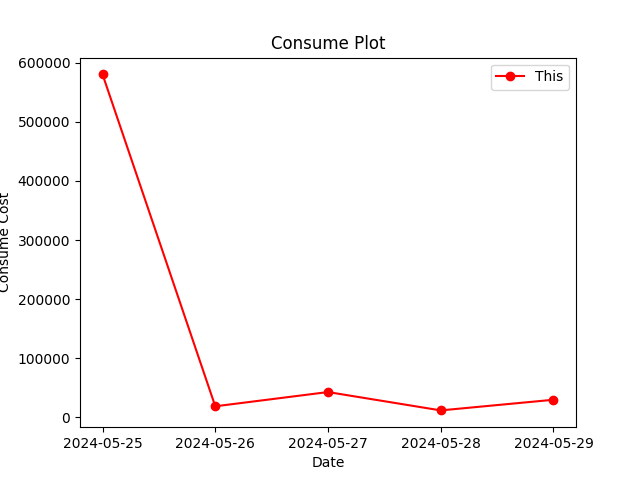
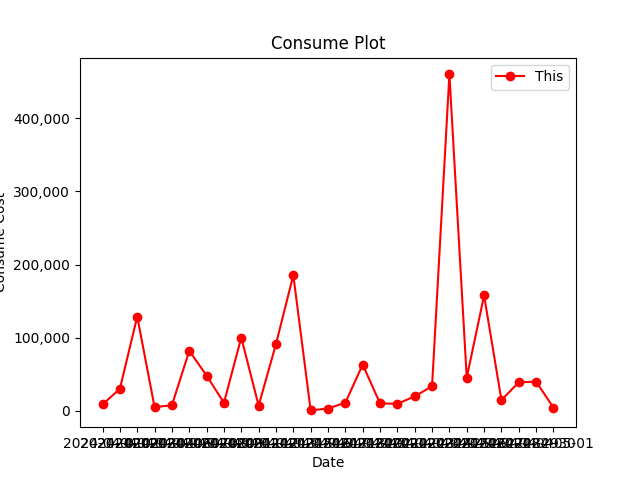
2024-05-29
2024-05-29

diff --git a/python_dev/consume_alert/command.py b/python_dev/consume_alert/command.py
@@ -205,7 +205,11 @@ def command_consumption_per_term(update, context, grant_group_name):
                     total_cost = es_obj.get_consume_total_cost('consuming_index_prod_new', formatted_start_date, formatted_end_date)
                     consume_info_list = es_obj.get_consume_info_detail_list('consuming_index_prod_new', formatted_start_date, formatted_end_date)
                     
+                    calculate_cosume_res(consume_info_list)
+
                     tele_bot.send_message_consume(context, start_date, end_date , total_cost, consume_info_list, 10)
+
+                    send_image(update, context, './data/img/plot.png')
 
             else:
                 tele_bot.send_message_text(context, "There is a problem with the parameter you entered. Please check again. \nEX) /ctr 2023.07.07-2023.08.01")
@@ -299,7 +303,7 @@ def command_consumption_per_salary(update, context, grant_group_name):
                     now_date = now_date.replace(day=1) - timedelta(days=1)
                     now_date = now_date.replace(day=25, hour=0, minute=0, second=0, microsecond=0)
                     end_date = end_date.replace(day=25, hour=0, minute=0, second=0, microsecond=0)
-
+                
                 formatted_now_date = now_date.strftime("%Y-%m-%dT%H:%M:%SZ")
                 formatted_end_date = end_date.strftime("%Y-%m-%dT%H:%M:%SZ")
                 
@@ -312,8 +316,9 @@ def command_consumption_per_salary(update, context, grant_group_name):
 
                 calculate_cosume_res(consume_info_list)
 
+                tele_bot.send_message_consume(context, formatted_now_date, formatted_end_date , total_cost, consume_info_list, 10)
 
-                #tele_bot.send_message_consume(context, formatted_now_date, formatted_end_date , total_cost, consume_info_list, 10)
+                send_image(update, context, './data/img/plot.png')
                 
             else:
                 tele_bot.send_message_text(context, "There is a problem with the parameter you entered. Please check again. \nEX) /cs")

diff --git a/python_dev/consume_alert/utils/matplot_util.py b/python_dev/consume_alert/utils/matplot_util.py
@@ -7,7 +7,7 @@ def calculate_cosume_res(consume_list):
     
     # Ordered Dictionary to save results
     results = OrderedDict()
-
+    
     for elem in consume_list:
 
         elem_date = elem.date 
@@ -15,7 +15,7 @@ def calculate_cosume_res(consume_list):
         
         # parsing into datetime objects
         dt = datetime.fromisoformat(elem_date.rstrip('Z'))
-
+        
         # Extract date in year-month-day format
         date_only = dt.date().isoformat()
 
@@ -24,21 +24,24 @@ def calculate_cosume_res(consume_list):
         else:
             results[date_only] = elem_cost
 
-    # for date, total_cost in results.items():
-    #     print(date, total_cost)
+    for date, total_cost in results.items():
+        print(date, total_cost)
 
     draw_graph(results)
 
     #return results
 
 
+# Formatter Function Definition
+def thousands_formatter(x, pos):
+    return f'{int(x):,}'
 
 
 def draw_graph(order_dict):
     
     x = []
     y = []
-
+    
     for date, total_cost in order_dict.items():
         x.append(date)
         y.append(total_cost)
@@ -46,6 +49,12 @@ def draw_graph(order_dict):
     # 그래프 생성
     plt.figure()
     plt.plot(x, y, marker='o', color='red', label='This')
+
+    # y축 레이블 포맷 설정
+    formatter = FuncFormatter(thousands_formatter)
+    plt.gca().yaxis.set_major_formatter(formatter)
+
+
     plt.title('Consume Plot')
     plt.xlabel('Date')
     plt.ylabel('Consume Cost')  
